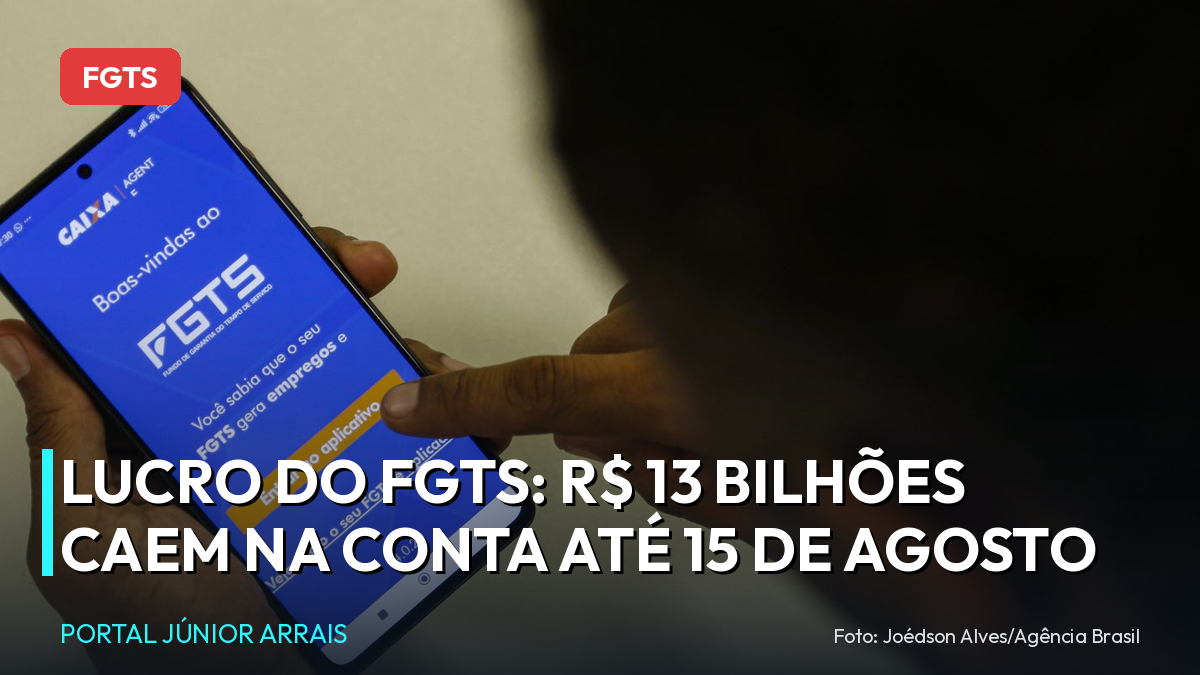
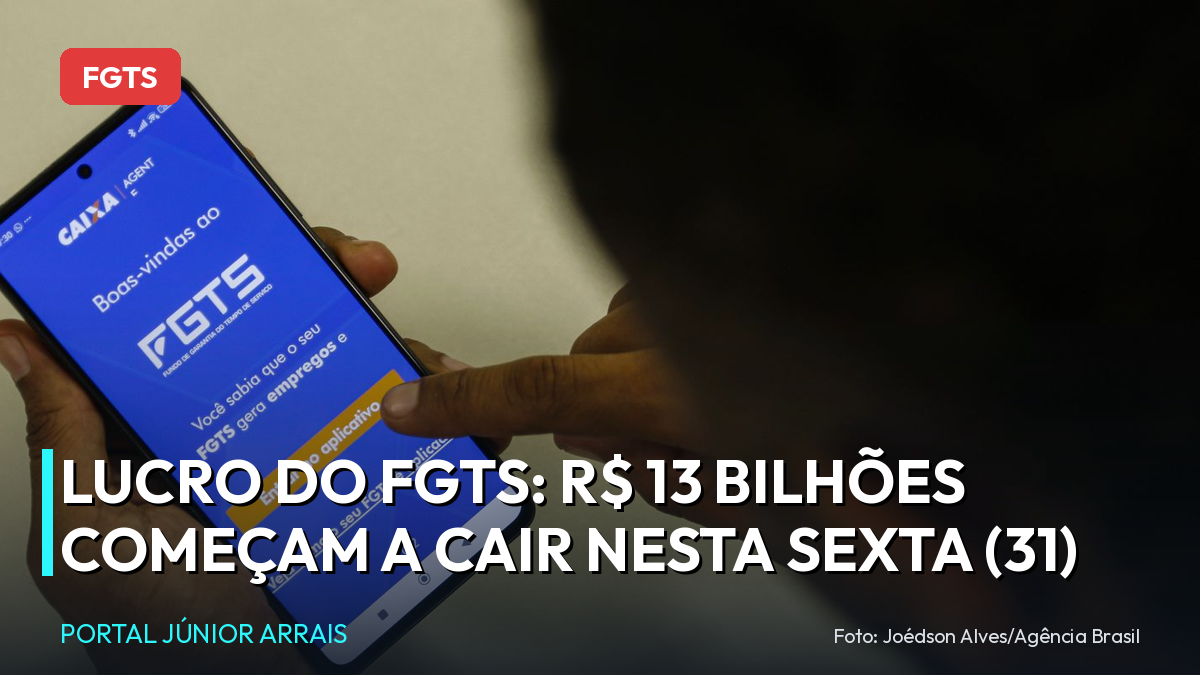
Corrige: lucro do FGTS começa a cair nesta sexta (31)

Changed region(s): [[0.0617, 0.7467, 0.925, 0.8711]]

diff --git a/noticias/fgts-lucro-13-bilhoes-credito-agosto.html b/noticias/fgts-lucro-13-bilhoes-credito-agosto.html
@@ -3,12 +3,12 @@
 <head>
   <meta charset="UTF-8">
   <meta name="viewport" content="width=device-width, initial-scale=1.0">
-  <title>Lucro do FGTS: R$ 13 bilhões caem na conta até 15 de agosto; veja quem recebe</title>
-  <meta name="description" content="Conselho aprovou a distribuição do lucro de 2025: crédito automático para quem tinha saldo no FGTS em 31 de dezembro. Veja quanto você vai receber.">
+  <title>Lucro do FGTS: R$ 13 bilhões começam a cair na conta nesta sexta (31); veja quem recebe</title>
+  <meta name="description" content="Caixa começa a depositar nesta sexta (31) o lucro do FGTS de 2025: crédito automático para quem tinha saldo em 31 de dezembro. Veja quanto você recebe.">
   <link rel="canonical" href="https://portaljuniorarrais.com.br/noticias/fgts-lucro-13-bilhoes-credito-agosto.html">
   <meta property="og:type" content="article">
-  <meta property="og:title" content="Lucro do FGTS: R$ 13 bilhões caem na conta até 15 de agosto; veja quem recebe">
-  <meta property="og:description" content="Conselho aprovou a distribuição do lucro de 2025: crédito automático para quem tinha saldo no FGTS em 31 de dezembro. Veja quanto você vai receber.">
+  <meta property="og:title" content="Lucro do FGTS: R$ 13 bilhões começam a cair na conta nesta sexta (31); veja quem recebe">
+  <meta property="og:description" content="Caixa começa a depositar nesta sexta (31) o lucro do FGTS de 2025: crédito automático para quem tinha saldo em 31 de dezembro. Veja quanto você recebe.">
   <meta property="og:image" content="https://portaljuniorarrais.com.br/img/fgts-lucro-13-bilhoes-credito-agosto.png">
   <meta property="og:url" content="https://portaljuniorarrais.com.br/noticias/fgts-lucro-13-bilhoes-credito-agosto.html">
   <link rel="preconnect" href="https://fonts.googleapis.com">
@@ -19,8 +19,8 @@
   {
     "@context": "https://schema.org",
     "@type": "NewsArticle",
-    "headline": "Lucro do FGTS: R$ 13 bilhões caem na conta até 15 de agosto; veja quem recebe",
-    "description": "Conselho aprovou a distribuição do lucro de 2025: crédito automático para quem tinha saldo no FGTS em 31 de dezembro. Veja quanto você vai receber.",
+    "headline": "Lucro do FGTS: R$ 13 bilhões começam a cair na conta nesta sexta (31); veja quem recebe",
+    "description": "Caixa começa a depositar nesta sexta (31) o lucro do FGTS de 2025: crédito automático para quem tinha saldo em 31 de dezembro. Veja quanto você recebe.",
     "image": ["https://portaljuniorarrais.com.br/img/fgts-lucro-13-bilhoes-credito-agosto.png"],
     "datePublished": "2026-07-30",
     "dateModified": "2026-07-30",
@@ -79,22 +79,23 @@
     <article class="artigo">
       <a class="voltar" href="../index.html">&larr; Voltar para o início</a>
       <div><span class="chip">FGTS</span></div>
-      <h1>Lucro do FGTS: R$ 13 bilhões caem na conta até 15 de agosto; veja quem recebe</h1>
+      <h1>Lucro do FGTS: R$ 13 bilhões começam a cair na conta nesta sexta (31); veja quem recebe</h1>
       <div class="meta"><img src="../img/junior-avatar.png" alt="Júnior Arrais" class="autor-foto"> Por Júnior Arrais &middot; 30 de jul. de 2026</div>
-      <div class="artigo-capa"><img src="../img/fgts-lucro-13-bilhoes-credito-agosto.png" alt="Lucro do FGTS: R$ 13 bilhões caem na conta até 15 de agosto; veja quem recebe"></div>
+      <div class="artigo-capa"><img src="../img/fgts-lucro-13-bilhoes-credito-agosto.png" alt="Lucro do FGTS: R$ 13 bilhões começam a cair na conta nesta sexta (31); veja quem recebe"></div>
 
       <div class="artigo-conteudo">
-<p>O trabalhador brasileiro vai ganhar um reforço na conta do FGTS nas próximas semanas. O Conselho Curador do fundo aprovou, na terça-feira (28), a distribuição de R$ 13 bilhões do lucro que o FGTS teve em 2025. O dinheiro será depositado de forma automática, na primeira quinzena de agosto, para cerca de 138,2 milhões de trabalhadores.</p>
+<p>O dinheiro está chegando: a Caixa começa a depositar nesta sexta-feira (31) a distribuição de R$ 13 bilhões do lucro que o FGTS teve em 2025. O crédito é automático, direto na conta do fundo, e alcança cerca de 138,2 milhões de trabalhadores. A aprovação saiu na terça-feira (28), pelo Conselho Curador do FGTS.</p>
 <p><em>Foto da capa: Joédson Alves/Agência Brasil</em></p>
 <h2>Quem tem direito</h2>
 <p>Recebe o crédito quem tinha qualquer valor guardado em conta do FGTS — ativa ou inativa — no dia 31 de dezembro de 2025. Não precisa pedir nada, nem ir à Caixa: o valor cai sozinho na conta do fundo.</p>
 <h2>Quanto cai para cada um</h2>
-<p>O valor é proporcional ao que você tinha guardado. A distribuição representa um acréscimo de 1,87% sobre o saldo de 31 de dezembro de 2025. Na prática:</p>
+<p>O valor é proporcional ao que você tinha guardado. A conta oficial é simples: multiplique o saldo que você tinha em 31 de dezembro de 2025 pelo índice 0,0186834 — um acréscimo de cerca de 1,87%. Na prática:</p>
 <ul>
-<li>quem tinha R$ 1.000 recebe cerca de R$ 18,70;</li>
-<li>quem tinha R$ 5.000 recebe cerca de R$ 93,50;</li>
-<li>quem tinha R$ 10.000 recebe cerca de R$ 187.</li>
+<li>quem tinha R$ 1.000 recebe R$ 18,68;</li>
+<li>quem tinha R$ 5.000 recebe R$ 93,42;</li>
+<li>quem tinha R$ 10.000 recebe R$ 186,83.</li>
 </ul>
+<p>Quem tem mais de uma conta do FGTS (de empregos diferentes) recebe o crédito em cada uma delas, calculado pelo saldo de cada conta.</p>
 <p>Com esse reforço, o rendimento total do FGTS em 2025 chega a 6,90%, acima da inflação do período. O valor distribuído corresponde a 89% do lucro de R$ 14,7 bilhões que o fundo teve no ano.</p>
 <h2>Posso sacar esse dinheiro?</h2>
 <p>Atenção: o lucro entra na conta do FGTS, mas só pode ser sacado nas situações que a lei já permite — demissão sem justa causa, compra da casa própria, aposentadoria, doença grave ou saque-aniversário, para quem aderiu a essa modalidade. Ou seja, o dinheiro é seu e rende, mas não é um saque liberado para todo mundo.</p>

diff --git a/index.html b/index.html
@@ -82,8 +82,8 @@
     <section class="container destaque-3col" id="noticias">
       <div class="col-esq">
         <a class="mini-card grande" href="noticias/fgts-lucro-13-bilhoes-credito-agosto.html">
-          <div class="mini-thumb"><img src="img/fgts-lucro-13-bilhoes-credito-agosto.png" alt="Lucro do FGTS: R$ 13 bilhões caem na conta até 15 de agosto"></div>
-          <h3>Lucro do FGTS: R$ 13 bilhões caem na conta até 15 de agosto; veja quem recebe</h3>
+          <div class="mini-thumb"><img src="img/fgts-lucro-13-bilhoes-credito-agosto.png" alt="Lucro do FGTS: R$ 13 bilhões começam a cair nesta sexta (31)"></div>
+          <h3>Lucro do FGTS: R$ 13 bilhões começam a cair na conta nesta sexta (31); veja quem recebe</h3>
           <span class="meta">30 de jul. de 2026</span>
         </a>
         <a class="mini-card grande" href="noticias/gas-do-povo-nova-recarga-10-de-agosto.html">

diff --git a/noticias.html b/noticias.html
@@ -79,8 +79,8 @@
             <div class="card-thumb"><img src="img/fgts-lucro-13-bilhoes-credito-agosto.png" alt="" loading="lazy"></div>
             <div class="card-body">
               <span class="chip">FGTS</span>
-              <h3>Lucro do FGTS: R$ 13 bilhões caem na conta até 15 de agosto; veja quem recebe</h3>
-              <p>Crédito automático de 1,87% sobre o saldo de 31 de dezembro de 2025 alcança 138,2 milhões de trabalhadores.</p>
+              <h3>Lucro do FGTS: R$ 13 bilhões começam a cair na conta nesta sexta (31); veja quem recebe</h3>
+              <p>Caixa deposita a partir desta sexta (31): crédito automático de 1,87% sobre o saldo de 31 de dezembro de 2025.</p>
               <span class="meta">30 de jul. de 2026</span>
             </div>
           </a>
